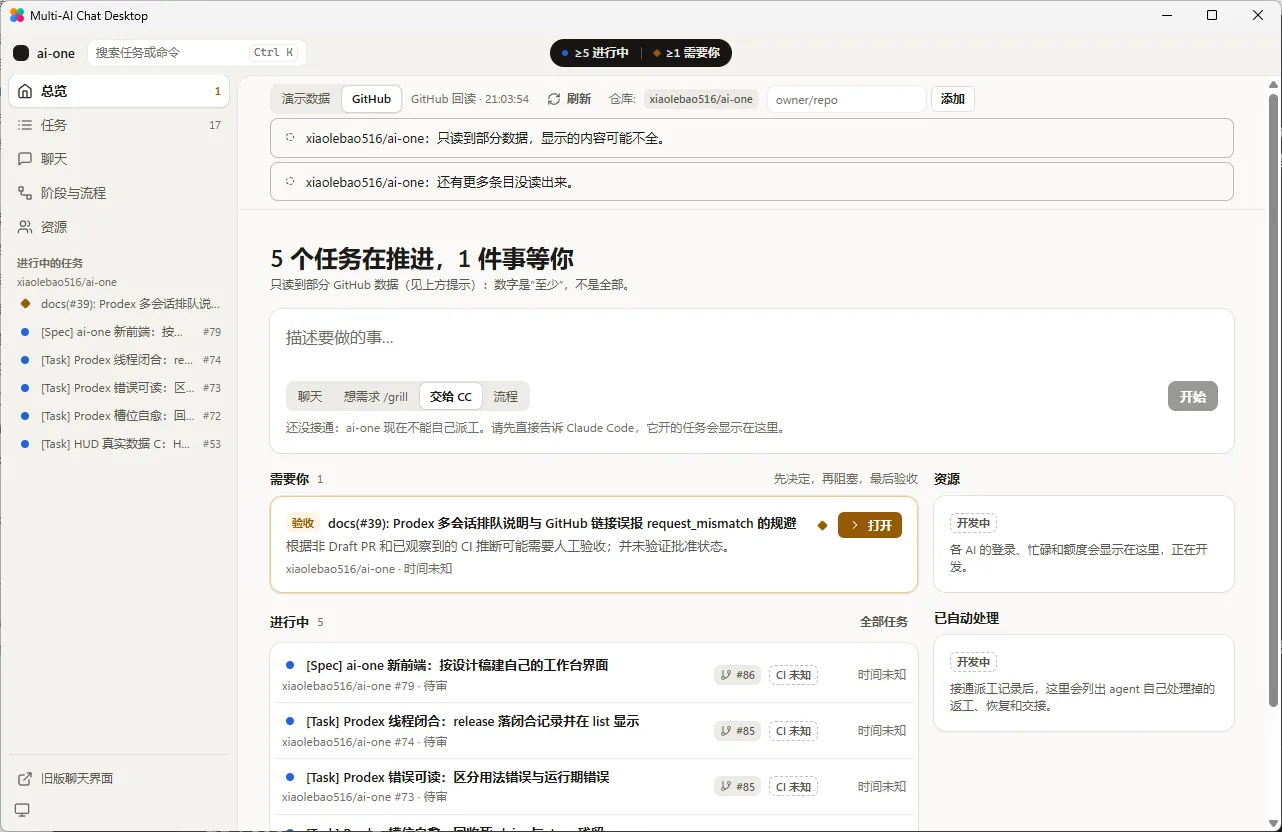
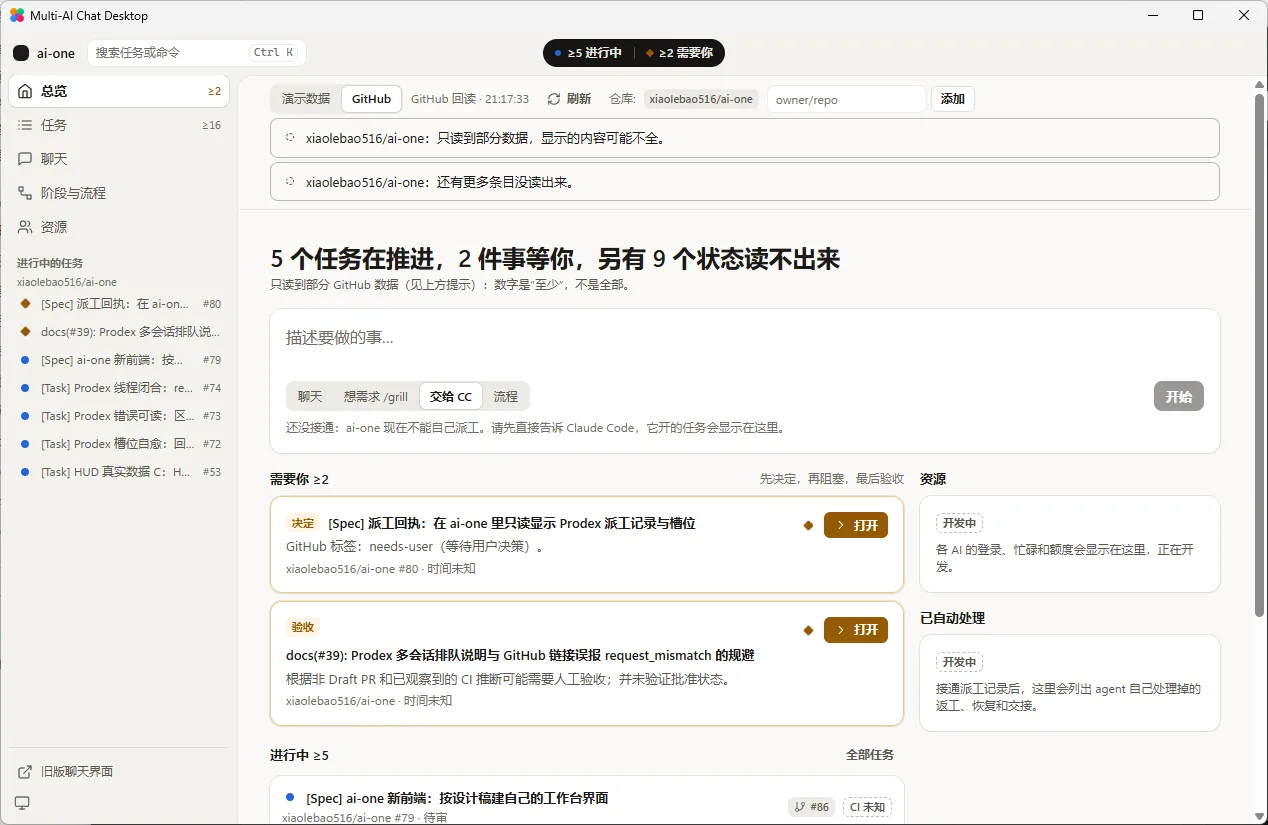
fix(#79): 所有数字统一按“精确 / 至少 / 未知”显示，状态读不出来时不说“没有等你的事”
- countLabel 一处定义：状态岛、侧栏导航、总览分区、任务筛选、仓库分组都用它
- 侧栏空态按读取状态写：完整才说“没有进行中的任务”
- 有任务状态读不出来时，标题写出“另有 N 个状态读不出来”
- 来源条只显示当前仓库集合的提示和读取时间
- 测试：未知 + 进行中 / 未知 + 验收、部分读取下侧栏与筛选、刷新时侧栏显示 ?

diff --git a/src/workbench/Workbench.tsx b/src/workbench/Workbench.tsx
@@ -7,7 +7,7 @@ import { taskHudText } from '../ui/taskHudText';
 import { Badge, Button, Icon, IconButton, Notice, SegmentedControl, StatusIndicator, V2Scope, cx, type V2IconName } from '../ui/v2';
 import { CommandPalette } from './CommandPalette';
 import { NAV_KEY, paletteCommands } from './paletteCommands';
-import { isCountable, isExact, observedAt, repoNotices, useWorkbenchData, type DataHealth, type GitHubLoader, type WorkbenchData } from './useWorkbenchData';
+import { countLabel, isExact, observedAt, repoNotices, useWorkbenchData, type DataHealth, type GitHubLoader, type WorkbenchData } from './useWorkbenchData';
 import {
   HOME_ROUTE,
   MAX_REPOS,
@@ -136,7 +136,7 @@ export function Workbench({ locale, onOpenClassic, githubLoader }: WorkbenchProp
           text={text}
           locale={locale}
           tasks={data.tasks}
-          known={isCountable(data.health)}
+          health={data.health}
           active={navViewFor(current)}
           activeTaskId={current.taskId}
           theme={data.prefs.theme}
@@ -176,7 +176,7 @@ interface TitleBarProps {
 
 function TitleBar({ text, tasks, health, onPalette, onShowTasks }: TitleBarProps) {
   const summary = summarize(tasks);
-  const count = (n: number) => (isExact(health) ? String(n) : health === 'partial' ? `≥${n}` : '?');
+  const count = (n: number) => countLabel(n, health);
   const values = { inProgress: summary.inProgress, needsYou: summary.needsYou };
   const islandLabel = isExact(health)
     ? text.t('islandAria', values)
@@ -225,7 +225,7 @@ interface SidebarProps {
   text: WorkbenchText;
   locale: Locale;
   tasks: readonly HudTask[];
-  known: boolean;
+  health: DataHealth;
   active: NavView;
   activeTaskId?: string;
   theme: WorkbenchData['prefs']['theme'];
@@ -235,7 +235,7 @@ interface SidebarProps {
   onOpenClassic: () => void;
 }
 
-function Sidebar({ text, locale, tasks, known, active, activeTaskId, theme, onNavigate, onOpenTask, onTheme, onOpenClassic }: SidebarProps) {
+function Sidebar({ text, locale, tasks, health, active, activeTaskId, theme, onNavigate, onOpenTask, onTheme, onOpenClassic }: SidebarProps) {
   const summary = summarize(tasks);
   const hud = taskHudText(locale);
   const groups = groupByRepo(activeTasks(tasks));
@@ -245,7 +245,9 @@ function Sidebar({ text, locale, tasks, known, active, activeTaskId, theme, onNa
       <ul className="grid gap-0.5">
         {NAV_VIEWS.map((view, index) => {
           const label = text.t(NAV_KEY[view]);
-          const count = view === 'home' ? summary.needsYou : view === 'tasks' ? summary.total : undefined;
+          const raw = view === 'home' ? summary.needsYou : view === 'tasks' ? summary.total : undefined;
+          // Same rule as the status island: exact, "at least", or "?"; never a stale or partial number as fact.
+          const count = raw === undefined || (raw === 0 && isExact(health)) ? undefined : countLabel(raw, health);
           return (
             <li key={view}>
               <button
@@ -271,7 +273,11 @@ function Sidebar({ text, locale, tasks, known, active, activeTaskId, theme, onNa
 
       <section aria-label={text.t('activeTasks')} className="grid grid-cols-[minmax(0,1fr)] gap-v2-xs max-[1099px]:hidden">
         <h2 className="px-v2-sm text-v2-micro font-semibold text-v2-ink-3">{text.t('activeTasks')}</h2>
-        {groups.length === 0 ? <p className="px-v2-sm text-v2-micro text-v2-ink-3">{text.t(known ? 'noActiveTasks' : 'islandUnknown')}</p> : null}
+        {groups.length === 0 ? (
+          <p className="px-v2-sm text-v2-micro text-v2-ink-3">
+            {text.t(isExact(health) ? 'noActiveTasks' : health === 'partial' ? 'partialNone' : 'islandUnknown')}
+          </p>
+        ) : null}
         {groups.map((group) => (
           <div key={group.repo}>
             <div className="truncate px-v2-sm text-v2-micro text-v2-ink-3">{group.repo}</div>
@@ -318,8 +324,9 @@ function SourceBar({ text, data, locale }: { text: WorkbenchText; data: Workbenc
   const [draft, setDraft] = useState('');
   const [repoError, setRepoError] = useState<string | undefined>();
   const { prefs, github } = data;
-  const notices = prefs.source === 'github' ? repoNotices(github.results) : [];
-  const observed = observedAt(github.results);
+  const current = github.reposKey === prefs.repos.join('\n') ? github.results : [];
+  const notices = prefs.source === 'github' ? repoNotices(current) : [];
+  const observed = observedAt(current);
   return (
     <div className="sticky top-0 z-10 grid gap-v2-xs border-b border-v2-line bg-v2-panel px-v2-page py-v2-sm">
       <div className="flex flex-wrap items-center gap-v2-sm text-v2-meta">

diff --git a/src/workbench/views/HomeView.tsx b/src/workbench/views/HomeView.tsx
@@ -4,11 +4,16 @@ import { formatAge, inProgressTasks, needsYouTasks, pickText, type HudTask } fro
 import { taskHudText } from '../../ui/taskHudText';
 import { Badge, Button, Card, EmptyState, Icon, SectionHeader, SegmentedControl } from '../../ui/v2';
 import { TaskRow, TaskStatus } from '../TaskBits';
-import { isCountable, isExact, type DataHealth } from '../useWorkbenchData';
+import { countLabel, isCountable, isExact, type DataHealth } from '../useWorkbenchData';
 import { headline } from '../workbenchModel';
 import { workbenchText } from '../workbenchText';
 
 type ComposerMode = 'chat' | 'grill' | 'cc' | 'flow';
+
+/** Exact counts go in the header's count slot; "at least" / unknown ones are written into the title. */
+function sectionTitle(label: string, n: number, health: DataHealth): string {
+  return isExact(health) ? label : `${label} ${countLabel(n, health)}`;
+}
 
 export interface HomeViewProps {
   locale: Locale;
@@ -27,8 +32,10 @@ export function HomeView({ locale, tasks, health, onOpenTask, onShowTasks }: Hom
   let title: string;
   if (health === 'loading') title = text.t('headlineLoading');
   else if (health === 'failed') title = text.t('headlineFailed');
-  else if (lead.kind === 'waiting') title = text.t('headlineWaiting', { inProgress: lead.inProgress, needsYou: lead.needsYou });
-  else if (lead.kind === 'moving') title = text.t('headlineMoving', { inProgress: lead.inProgress });
+  else if (lead.kind === 'waiting')
+    title = text.t(lead.unknown ? 'headlineWaitingUnknown' : 'headlineWaiting', { inProgress: lead.inProgress, needsYou: lead.needsYou, unknown: lead.unknown });
+  // "nothing waiting for you" is only said when every task's state was read.
+  else if (lead.kind === 'moving') title = text.t(lead.unknown ? 'headlineMovingUnknown' : 'headlineMoving', { inProgress: lead.inProgress, unknown: lead.unknown });
   else if (lead.kind === 'unclear') title = text.t('headlineUnclear', { unknown: lead.unknown });
   else if (health === 'partial') title = text.t('partialNone');
   else title = text.t(lead.kind === 'quiet' ? 'headlineQuiet' : 'headlineEmpty');
@@ -62,7 +69,7 @@ export function HomeView({ locale, tasks, health, onOpenTask, onShowTasks }: Hom
       <div className="grid gap-v2-lg min-[1100px]:grid-cols-[minmax(0,1fr)_300px]">
         <div className="grid content-start gap-v2-lg">
           <section aria-labelledby="home-needs-you">
-            <SectionHeader id="home-needs-you" title={text.t('needsYou')} count={countable ? needsYou.length : undefined} description={text.t('needsYouHint')} />
+            <SectionHeader id="home-needs-you" title={sectionTitle(text.t('needsYou'), needsYou.length, health)} count={isExact(health) ? needsYou.length : undefined} description={text.t('needsYouHint')} />
             {needsYou.length ? (
               <ul className="mt-v2-sm grid gap-v2-sm">
                 {needsYou.map((task) => (
@@ -75,8 +82,8 @@ export function HomeView({ locale, tasks, health, onOpenTask, onShowTasks }: Hom
           <section aria-labelledby="home-in-progress">
             <SectionHeader
               id="home-in-progress"
-              title={text.t('inProgress')}
-              count={countable ? moving.length : undefined}
+              title={sectionTitle(text.t('inProgress'), moving.length, health)}
+              count={isExact(health) ? moving.length : undefined}
               actions={
                 <Button size="sm" variant="ghost" onClick={onShowTasks}>
                   {text.t('allTasks')}

diff --git a/src/__tests__/WorkbenchInteraction.test.tsx b/src/__tests__/WorkbenchInteraction.test.tsx
@@ -185,5 +185,36 @@ describe('GitHub reads', () => {
     expect(h1(container)).toBe('Nothing of this kind in what could be read; the rest is unknown.');
     expect(container.querySelector('header button[aria-label]')?.textContent).toContain('≥0');
     expect(container.textContent).not.toContain('No tasks here yet');
+    // The sidebar follows the same rule as the status island.
+    const sidebar = container.querySelector('nav') as HTMLElement;
+    expect(sidebar.textContent).not.toContain('Nothing in progress');
+    expect(sidebar.textContent).toContain('Nothing of this kind in what could be read');
+  });
+
+  it('partial reads show counts as "at least" in the sidebar, the overview and the task filters', async () => {
+    const loader: GitHubLoader = async () => [repoResult('o/a', [githubTask('t1', 'Read task')]), repoResult('o/b', [], 'error')];
+    const container = await mount(loader);
+    await click(buttonByText(container, 'GitHub'));
+    const navTasks = [...container.querySelectorAll('nav li button')].find((button) => button.textContent?.startsWith('Tasks'));
+    expect(navTasks?.textContent).toContain('≥1');
+    expect(container.querySelector('#home-in-progress')?.textContent).toContain('≥1');
+    await key(window, { key: '2', ctrlKey: true });
+    expect(container.querySelector('[role="radiogroup"][aria-label="Filter tasks"]')?.textContent).toContain('All ≥1');
+  });
+
+  it('a stale snapshot shows "?" in the sidebar while refreshing', async () => {
+    const calls: ReturnType<typeof deferred<GitHubRepoTasks[]>>[] = [];
+    const loader: GitHubLoader = () => {
+      const next = deferred<GitHubRepoTasks[]>();
+      calls.push(next);
+      return next.promise;
+    };
+    const container = await mount(loader);
+    await click(buttonByText(container, 'GitHub'));
+    await act(async () => calls[0].resolve([repoResult('xiaolebao516/ai-one', [githubTask('t1', 'Read task')])]));
+    const navTasks = () => [...container.querySelectorAll('nav li button')].find((button) => button.textContent?.startsWith('Tasks'));
+    expect(navTasks()?.textContent).toContain('1');
+    await click(buttonByText(container, 'Refresh'));
+    expect(navTasks()?.textContent).toContain('?');
   });
 });

diff --git a/src/workbench/views/TasksView.tsx b/src/workbench/views/TasksView.tsx
@@ -3,7 +3,7 @@ import type { Locale } from '../../i18n/resolve';
 import type { HudTask } from '../../ui/taskHudModel';
 import { Card, EmptyState, SectionHeader, SegmentedControl } from '../../ui/v2';
 import { TaskRow } from '../TaskBits';
-import type { DataHealth } from '../useWorkbenchData';
+import { countLabel, isExact, type DataHealth } from '../useWorkbenchData';
 import { filterTasks, groupByRepo, type TaskFilter } from '../workbenchModel';
 import { workbenchText } from '../workbenchText';
 
@@ -30,7 +30,13 @@ export function TasksView({ locale, tasks, health, onOpenTask }: TasksViewProps)
           label={text.t('filterAria')}
           value={filter}
           onChange={(value) => setFilter(value as TaskFilter)}
-          options={FILTERS.map((value) => ({ value, label: text.t(FILTER_KEY[value]), count: filterTasks(tasks, value).length }))}
+          options={FILTERS.map((value) => {
+            const n = filterTasks(tasks, value).length;
+            // Exact counts use the count badge; partial / unknown reads say "at least" or "?" in the label.
+            return isExact(health)
+              ? { value, label: text.t(FILTER_KEY[value]), count: n }
+              : { value, label: `${text.t(FILTER_KEY[value])} ${countLabel(n, health)}` };
+          })}
         />
       </header>
       {groups.length === 0 ? (
@@ -44,7 +50,7 @@ export function TasksView({ locale, tasks, health, onOpenTask }: TasksViewProps)
       ) : (
         groups.map((group) => (
           <section key={group.repo} aria-label={group.repo}>
-            <SectionHeader level={3} title={group.repo} count={group.tasks.length} />
+            <SectionHeader level={3} title={isExact(health) ? group.repo : `${group.repo} ${countLabel(group.tasks.length, health)}`} count={isExact(health) ? group.tasks.length : undefined} />
             <Card padding="none" className="mt-v2-sm">
               <ul className="divide-y divide-v2-line p-v2-xs">
                 {group.tasks.map((task) => (

diff --git a/src/workbench/workbenchText.ts b/src/workbench/workbenchText.ts
@@ -45,6 +45,8 @@ const EN = {
   headlineQuiet: 'Nothing is moving and nothing needs you',
   headlineMoving: '{inProgress} tasks moving, nothing waiting for you',
   headlineWaiting: '{inProgress} tasks moving, {needsYou} waiting for you',
+  headlineWaitingUnknown: '{inProgress} tasks moving, {needsYou} waiting for you, {unknown} with an unreadable state',
+  headlineMovingUnknown: '{inProgress} tasks moving, {unknown} more with an unreadable state',
   headlineLoading: 'Reading GitHub…',
   headlineUnclear: '{unknown} tasks have a state that could not be read',
   headlineSubPartial: 'Only part of GitHub could be read (see above): numbers are "at least", not the full picture.',
@@ -164,6 +166,8 @@ const ZH: Record<Key, string> = {
   headlineQuiet: '没有在推进的事，也没有等你的事',
   headlineMoving: '{inProgress} 个任务在推进，没有等你的事',
   headlineWaiting: '{inProgress} 个任务在推进，{needsYou} 件事等你',
+  headlineWaitingUnknown: '{inProgress} 个任务在推进，{needsYou} 件事等你，另有 {unknown} 个状态读不出来',
+  headlineMovingUnknown: '{inProgress} 个任务在推进，另有 {unknown} 个任务状态读不出来',
   headlineLoading: '正在读取 GitHub…',
   headlineUnclear: '有 {unknown} 个任务的状态读不出来',
   headlineSubPartial: '只读到部分 GitHub 数据（见上方提示）：数字是“至少”，不是全部。',

diff --git a/src/__tests__/workbenchModel.test.ts b/src/__tests__/workbenchModel.test.ts
@@ -2,7 +2,7 @@ import { describe, expect, it } from 'vitest';
 import { TASK_HUD_MOCK_TASKS } from '../ui/taskHudMockData';
 import type { HudTask, TaskStatus } from '../ui/taskHudModel';
 import type { GitHubRepoTasks } from '../ui/taskHudGithub';
-import { dataHealth, isCountable, isExact, observedAt, repoNotices } from '../workbench/useWorkbenchData';
+import { countLabel, dataHealth, isCountable, isExact, observedAt, repoNotices } from '../workbench/useWorkbenchData';
 import {
   activeTasks,
   filterCommands,
@@ -114,6 +114,18 @@ describe('task grouping and headline', () => {
 
   it('never calls unreadable task states "nothing to do"', () => {
     expect(headline([task('u', 'unknown'), task('d', 'done')])).toEqual({ kind: 'unclear', inProgress: 0, needsYou: 0, unknown: 1 });
+    expect(headline([task('u', 'unknown'), task('r', 'running')])).toEqual({ kind: 'moving', inProgress: 1, needsYou: 0, unknown: 1 });
+    expect(headline([task('u', 'unknown'), task('a', 'accept')])).toEqual({ kind: 'waiting', inProgress: 0, needsYou: 1, unknown: 1 });
+  });
+
+  it('writes every count with one rule: exact, at least, or unknown', () => {
+    expect([countLabel(3, 'demo'), countLabel(3, 'complete'), countLabel(3, 'partial'), countLabel(3, 'loading'), countLabel(3, 'failed')]).toEqual([
+      '3',
+      '3',
+      '≥3',
+      '?',
+      '?',
+    ]);
   });
 
   it('works on the shipped demo data', () => {

diff --git a/src/__tests__/Workbench.test.tsx b/src/__tests__/Workbench.test.tsx
@@ -73,6 +73,14 @@ describe('Overview', () => {
     expect(partial).toContain('Only part of GitHub could be read');
     expect(partial).not.toContain('No tasks here yet');
   });
+
+  it('never says "nothing waiting for you" while some task state is unreadable', () => {
+    const running = TASK_HUD_MOCK_TASKS.find((item) => item.status === 'running')!;
+    const unreadable = { ...running, id: 'x-unknown', status: 'unknown' as const };
+    const text = visibleText(renderToStaticMarkup(<HomeView locale="en" tasks={[running, unreadable]} health="complete" onOpenTask={noop} onShowTasks={noop} />));
+    expect(text).toContain('1 more with an unreadable state');
+    expect(text).not.toContain('nothing waiting for you');
+  });
 });
 
 describe('Task page needs-you', () => {

diff --git a/src/workbench/useWorkbenchData.ts b/src/workbench/useWorkbenchData.ts
@@ -62,6 +62,12 @@ export function isExact(health: DataHealth): boolean {
   return health === 'demo' || health === 'complete';
 }
 
+/** How a count reads in the UI: exact, "at least" after a partial read, or unknown. */
+export function countLabel(n: number, health: DataHealth): string {
+  if (isExact(health)) return String(n);
+  return health === 'partial' ? `≥${n}` : '?';
+}
+
 /** Counts mean something (exactly or as "at least") only for these. */
 export function isCountable(health: DataHealth): boolean {
   return isExact(health) || health === 'partial';
